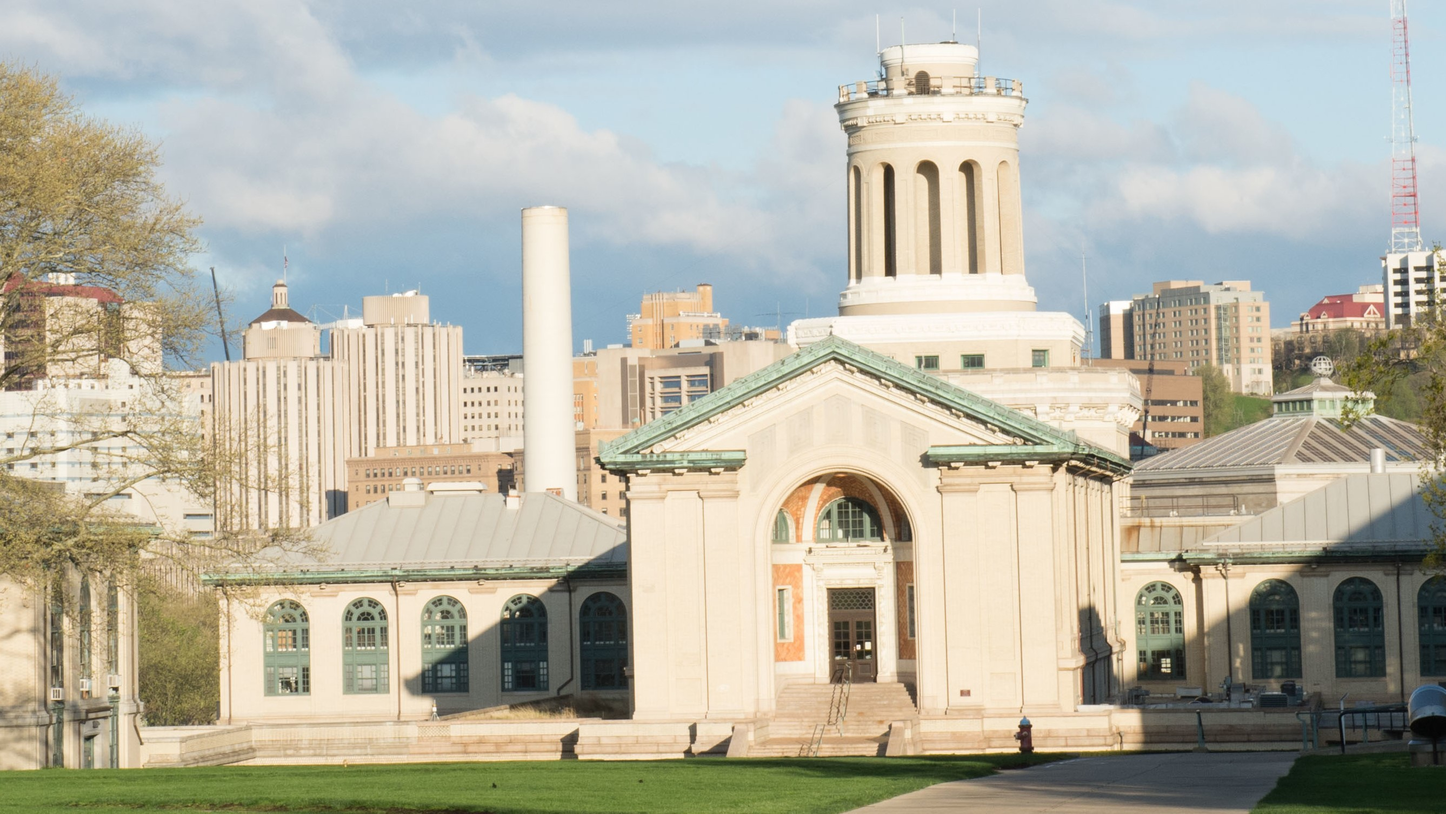
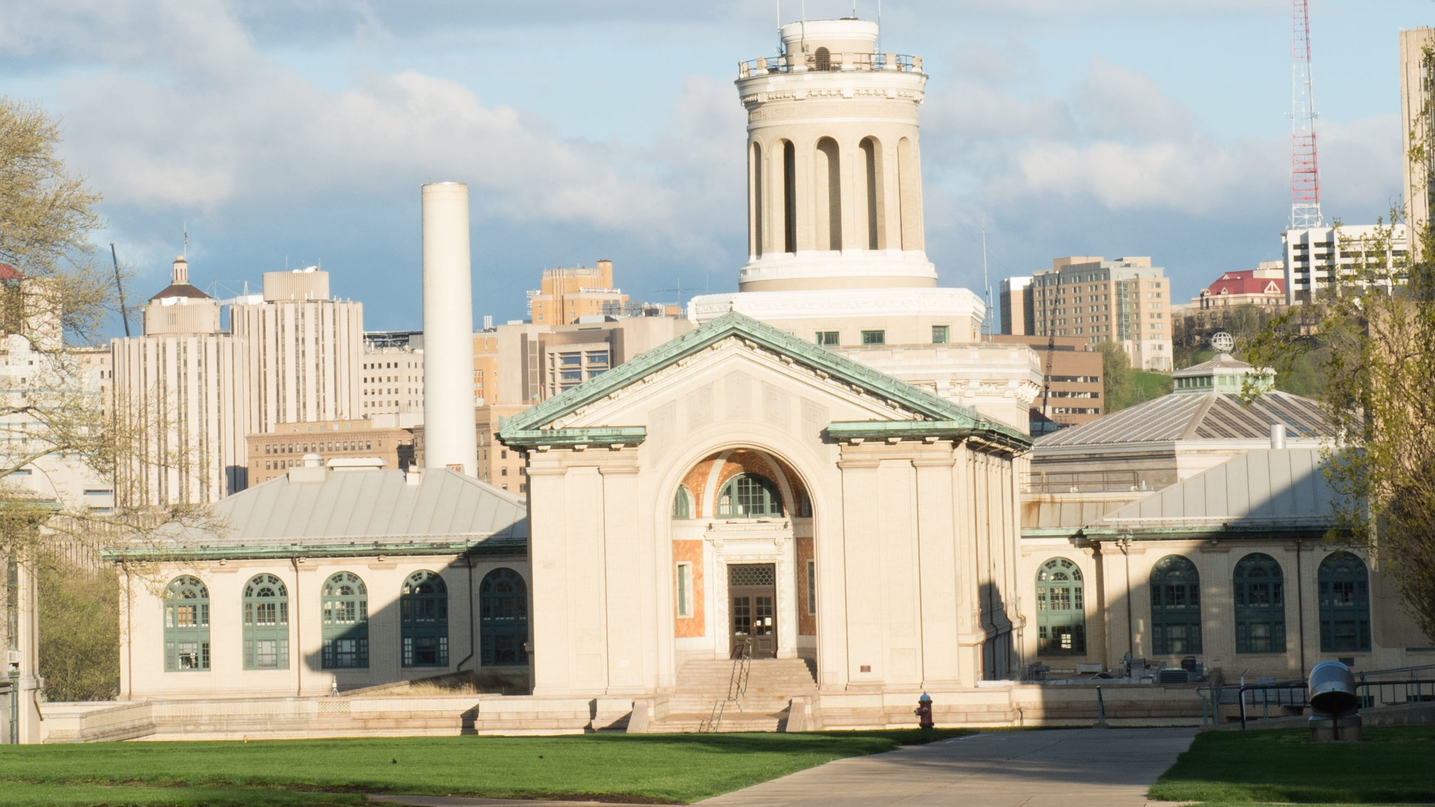
Build website

diff --git a/index.html b/index.html
@@ -783,7 +783,7 @@
 
   
   <section id="topimage" class="home-section wg-blank dark " style="padding: 200px 0 200px 0;" >
-   <div class="home-section-bg  bg-image parallax" style="background-image:  url(&#39;https://Abhishek0697.github.io/media/29265315871_7dfd4864a7_o.jpg&#39;);"></div>
+   <div class="home-section-bg  bg-image parallax" style="background-image:  url(&#39;https://Abhishek0697.github.io/media/cut.jpg&#39;);"></div>
     <div class="container">
 
     
@@ -791,8 +791,8 @@
       
         
           <div class="col-12 section-heading text-center">
-            <h1>All you want to know about my who-what-why-how-where-when.</h1>
-            
+            <h1>Hey, I am Abhishek!</h1>
+            <p>All you want to know about my who-what-why-how-where-when.</p>
           </div>
         
       
